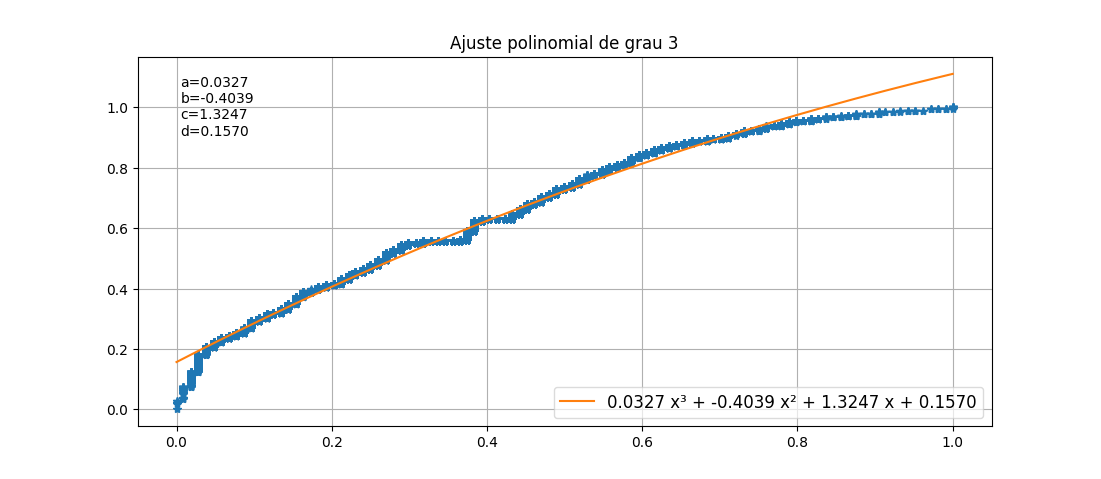
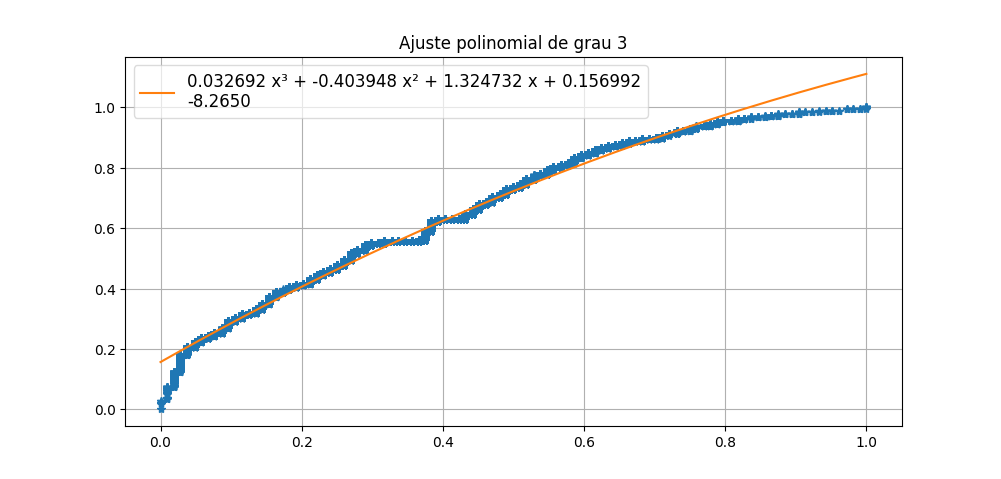
codigo calibração

diff --git a/yansa/calibracao/function.py b/yansa/calibracao/function.py
@@ -119,6 +119,8 @@ class FunctionsCalc:
         self.colunmOrden.sort()
         # self.exportCSV(self.colunmOrden, 'listaOrdenada.csv')
 
+        # return f"O valor máximo de {coluna} normalizada é {max(self.colunmOrden)}.\nO valor mínimo de {coluna} normalizada é {min(self.colunmOrden)}"
+
     # Método de Ordenação Quicksort
     def quicksort(self, array):  
 
@@ -164,18 +166,23 @@ class FunctionsCalc:
 
         print("Normalização completa.")
 
+        print("Calculando o R-quadrado...")
+
         x = np.array(Xcolunm)
         y = np.array(Ycolunm)
 
-        # Soma dos Quadrados dos Resíduos
+        # Soma dos Quadrados dos Resíduos (SSR)
         ss_res = np.sum((x - y) ** 2)
-
-        # Soma Total dos Quadrados
-        ss_tot = np.sum((x - np.mean(x)) ** 2)
+        print(f"SSR: {ss_res}")
+        
+        # Soma Total dos Quadrados (TSS)
+        media = np.mean(x)
+        ss_tot = np.sum((x - media) ** 2)
+        print(f"TSS: {ss_tot}")
 
         # R-quadrado
         r2 = 1 - (ss_res / ss_tot)
-        print(f"R-quadrado: {r2:.4f}")
+        print(f"R-quadrado: {r2:.3f}")
 
         # Cálculo do R-quadrado
         # 1. Criar e treinar o modelo
@@ -208,20 +215,21 @@ class FunctionsCalc:
 
         popt, pcov = curve_fit(func, x, y)
 
+        print("Ajuste completo!")
+
         fig, ax = plt.subplots()
 
-        legenda = f'%5.4f x³ + %5.4f x² + %5.4f x + %5.4f\n{r2:.4f}' %tuple(popt)
+        legenda = f'%5.6f x³ + %5.6f x² + %5.6f x + %5.6f\n{r2:.4f}' %tuple(popt)
+        # legenda = "f(x) = ax³ + bx² + cx + d"
+        # legenda = f'a=%5.6f\nb=%5.6f\nc=%5.6f\nd=%5.6f' %tuple(popt)        
         
         plt.grid(True)
         plt.plot(x, y, '*')
         plt.plot(x, func(x, *popt), label=legenda)
-        plt.legend(fontsize=12, frameon=True, framealpha=0.7 , facecolor='white')
-        textstr = 'a=%5.4f\nb=%5.4f\nc=%5.4f\nd=%5.4f' %tuple(popt)
+        plt.legend(fontsize=12, frameon=True, framealpha=0.7, facecolor='white')
+        # textstr = 'a=%5.4f\nb=%5.4f\nc=%5.4f\nd=%5.4f' %tuple(popt)
 
-        ax.text(0.05, 0.95, textstr, transform=ax.transAxes, fontsize=10,
-                verticalalignment='top')
-
-        
+        # ax.text(0.05, 0.95, textstr, transform=ax.transAxes, fontsize=10, verticalalignment='top')        
 
         plt.title('Ajuste polinomial de grau 3')
         plt.show()

diff --git a/yansa/calibracao/sensores.py b/yansa/calibracao/sensores.py
@@ -7,7 +7,7 @@ yansa2 = function.FunctionsCalc("2026-03-07a09_211e233.csv")
 # yansa2.plotar("fm0211")
 # yansa2.plotar("fm0233")
 
-# yansa2.normalizar("fm0211")
+# print(yansa2.normalizar("fm0211"))
 # yansa2.plotContra("fm0233", "fm0211")
 
 yansa2.ajustePolinomial("fm0233", "fm0211")
